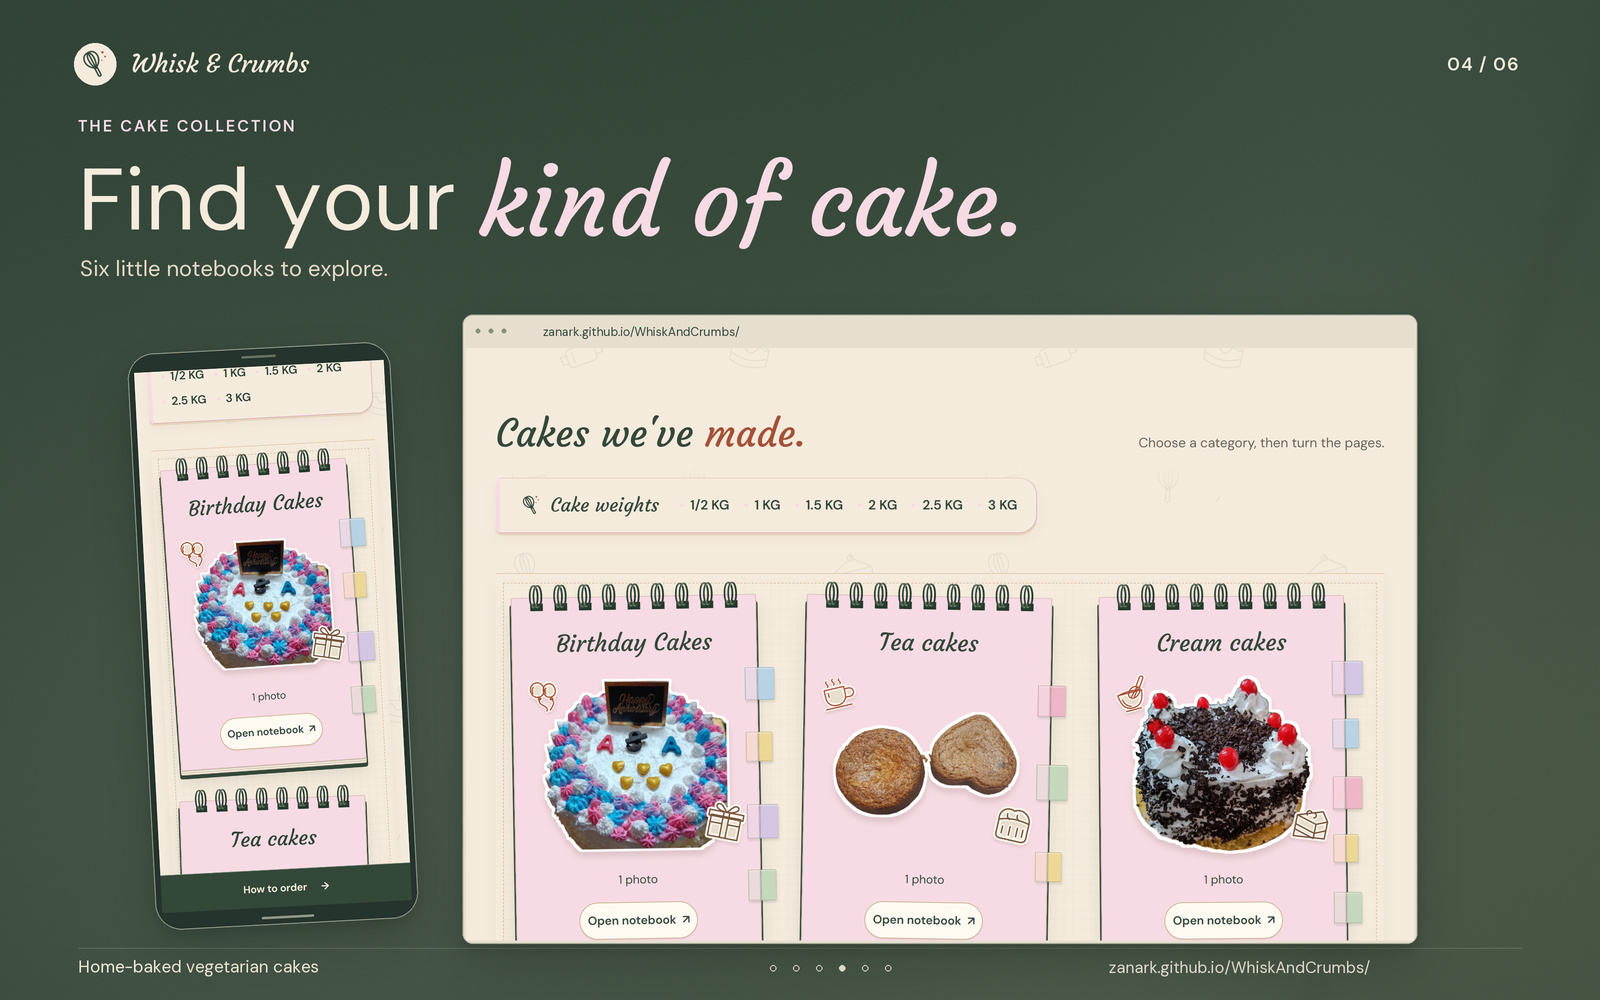
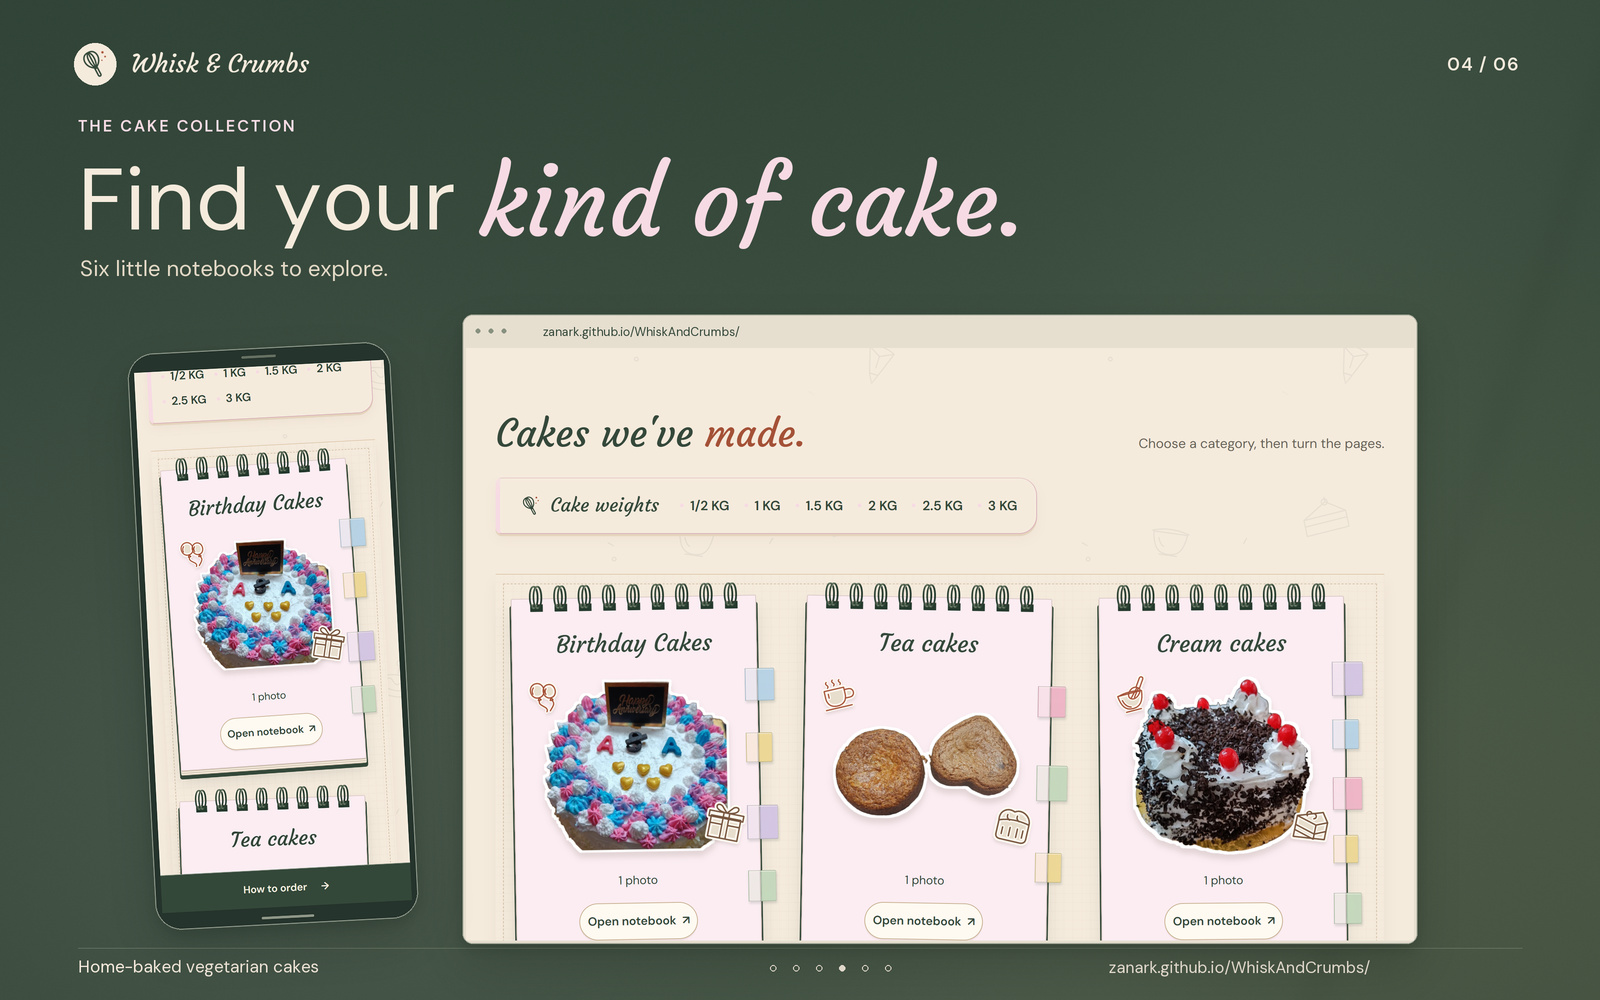
Lighten only the notebook covers to extra-pale blush
Use #fbedf2 cover faces while preserving the original weight-note accent, cream pages, green labels and tab colours. Refresh the notebook campaign views without changing product media or behavior.

Copilot-Session: 065222f9-e445-4b98-a549-e6948580c174

diff --git a/site/index.html b/site/index.html
@@ -22,14 +22,14 @@
   <link rel="icon" href="assets/favicon.svg" type="image/svg+xml" sizes="any">
   <link rel="apple-touch-icon" href="assets/apple-touch-icon.png" sizes="180x180">
   <link rel="preload" href="assets/fonts/courgette-regular.ttf" as="font" type="font/ttf" crossorigin>
-  <link rel="stylesheet" href="styles.css?v=51ee2b822d42">
-  <link rel="stylesheet" href="entrance-shop.css?v=51ee2b822d42">
-  <link rel="stylesheet" href="cozy-bakery.css?v=51ee2b822d42">
-  <link rel="stylesheet" href="readability.css?v=51ee2b822d42">
-  <link rel="modulepreload" href="entrance.mjs?v=51ee2b822d42">
-  <link rel="modulepreload" href="bell.mjs?v=51ee2b822d42">
-  <link rel="modulepreload" href="notebooks.mjs?v=51ee2b822d42">
-  <script type="module" src="main.mjs?v=51ee2b822d42"></script>
+  <link rel="stylesheet" href="styles.css?v=351a2a9f2186">
+  <link rel="stylesheet" href="entrance-shop.css?v=351a2a9f2186">
+  <link rel="stylesheet" href="cozy-bakery.css?v=351a2a9f2186">
+  <link rel="stylesheet" href="readability.css?v=351a2a9f2186">
+  <link rel="modulepreload" href="entrance.mjs?v=351a2a9f2186">
+  <link rel="modulepreload" href="bell.mjs?v=351a2a9f2186">
+  <link rel="modulepreload" href="notebooks.mjs?v=351a2a9f2186">
+  <script type="module" src="main.mjs?v=351a2a9f2186"></script>
 </head>
 <body>
   <a class="skip-link" href="#main">Skip to cakes and ordering</a>
@@ -40,7 +40,7 @@
         <div class="entrance-sign">
           <img src="assets/whisk-and-crumbs-logo.png" width="380" height="86" alt="">
         </div>
-        <div class="entrance-awning"><img src="assets/bakery-awning.svg?v=51ee2b822d42" width="1200" height="240" alt="" decoding="async"></div>
+        <div class="entrance-awning"><img src="assets/bakery-awning.svg?v=351a2a9f2186" width="1200" height="240" alt="" decoding="async"></div>
         <div class="entrance-doorway">
           <div class="entrance-bell-mount"></div>
           <svg class="entrance-bell" viewBox="0 0 64 68" width="64" height="68" fill="none" focusable="false">
@@ -53,9 +53,9 @@
           <div class="entrance-doorframe">
             <div class="entrance-room">
               <picture class="entrance-room-poster">
-                <source media="(max-aspect-ratio: 4/5)" srcset="assets/bakery-interior-portrait.webp?v=51ee2b822d42">
-                <source media="(max-height: 600px)" srcset="assets/bakery-interior-short.webp?v=51ee2b822d42">
-                <img src="assets/bakery-interior-wide.webp?v=51ee2b822d42" width="1600" height="1000" alt="" decoding="async">
+                <source media="(max-aspect-ratio: 4/5)" srcset="assets/bakery-interior-portrait.webp?v=351a2a9f2186">
+                <source media="(max-height: 600px)" srcset="assets/bakery-interior-short.webp?v=351a2a9f2186">
+                <img src="assets/bakery-interior-wide.webp?v=351a2a9f2186" width="1600" height="1000" alt="" decoding="async">
               </picture>
             </div>
             <div class="entrance-door entrance-door-left">
@@ -79,7 +79,7 @@
   </div>
   <noscript><style>.bakery-entrance { display: none !important; }</style></noscript>
   <header class="site-header">
-    <div class="shop-sign" style="--sign-wood:url('assets/bakery-sign-wood.webp?v=51ee2b822d42')">
+    <div class="shop-sign" style="--sign-wood:url('assets/bakery-sign-wood.webp?v=351a2a9f2186')">
       <div class="container header-inner">
         <a class="brand" href="#home" aria-label="Whisk &amp; Crumbs - home">
           <img src="assets/whisk-and-crumbs-mark.svg" width="128" height="128" alt="">
@@ -93,7 +93,7 @@
       <a class="button nav-cta" href="#order">How to order</a>
     </nav>
   </header>
-  <div class="site-awning" aria-hidden="true"><img src="assets/bakery-awning.svg?v=51ee2b822d42" width="1200" height="240" alt="" decoding="async"></div>
+  <div class="site-awning" aria-hidden="true"><img src="assets/bakery-awning.svg?v=351a2a9f2186" width="1200" height="240" alt="" decoding="async"></div>
 
   <main id="main" tabindex="-1">
     <section class="hero-section" id="home" aria-labelledby="hero-title">
@@ -651,7 +651,7 @@
         </div>
       </div>
     </section>
-    <div class="bakery-shelf" aria-hidden="true"><img src="assets/bakery-shelf.svg?v=51ee2b822d42" width="960" height="120" alt="" loading="lazy" decoding="async"></div>
+    <div class="bakery-shelf" aria-hidden="true"><img src="assets/bakery-shelf.svg?v=351a2a9f2186" width="960" height="120" alt="" loading="lazy" decoding="async"></div>
   </main>
 
   <footer class="container site-footer">

diff --git a/site/styles.css b/site/styles.css
@@ -5,7 +5,8 @@
 :root {
   --cream: #f5ebdd;
   --paper: #fffaf1;
-  --cover-paper: #f7dbe4;
+  --cover-paper: #fbedf2;
+  --weight-note-accent: #f7dbe4;
   --green: #34483a;
   --accent: #a45137;
   --wash: #e8decd;
@@ -175,12 +176,12 @@ em { color: var(--accent); font-weight: inherit; font-style: normal; }
 .cake-section { margin-block: 46px; }
 .section-heading { display: flex; flex-wrap: wrap; justify-content: space-between; align-items: end; gap: 18px 32px; margin-bottom: 30px; }
 .section-heading > p { color: var(--muted); max-width: 350px; }
-.cake-weight-info { display: flex; flex-wrap: wrap; align-items: center; gap: 16px 28px; width: fit-content; max-width: 100%; padding: 20px 26px; background: var(--cream); border: 1px solid #d9adba; border-left: 6px solid var(--cover-paper); border-radius: 8px 24px 24px 8px; box-shadow: 0 4px 0 rgb(239 183 200 / 20%); }
+.cake-weight-info { display: flex; flex-wrap: wrap; align-items: center; gap: 16px 28px; width: fit-content; max-width: 100%; padding: 20px 26px; background: var(--cream); border: 1px solid #d9adba; border-left: 6px solid var(--weight-note-accent); border-radius: 8px 24px 24px 8px; box-shadow: 0 4px 0 rgb(239 183 200 / 20%); }
 .cake-weight-heading { display: flex; align-items: center; gap: 10px; min-width: 0; font: 400 1.6rem/1.3 var(--script); overflow-wrap: anywhere; }
 .cake-weight-heading img { flex: 0 0 32px; width: 32px; height: 32px; }
 .cake-weight-values { display: flex; flex-wrap: wrap; align-items: center; gap: 10px 20px; min-width: 0; max-width: 100%; margin: 0; padding: 0; list-style: none; }
 .cake-weight-values li { display: flex; align-items: center; gap: 9px; color: var(--green); font-size: 1.125rem; font-weight: 600; line-height: 1.6; white-space: nowrap; }
-.cake-weight-values li::before { content: ""; flex: 0 0 5px; width: 5px; height: 5px; border-radius: 50%; background: var(--cover-paper); }
+.cake-weight-values li::before { content: ""; flex: 0 0 5px; width: 5px; height: 5px; border-radius: 50%; background: var(--weight-note-accent); }
 @media (max-width: 600px) {
   .cake-weight-info { width: 100%; padding: 18px 16px; gap: 12px; }
   .cake-weight-heading { width: 100%; }

diff --git a/README.md b/README.md
@@ -4,8 +4,8 @@
 
 [![A little care in every layer: the genuine desktop story and mobile recipe-note view, with cream editorial typography and slim device framing.](site/assets/showcase/03-our-story.jpg?v=f5cb96f3bc5d)](https://zanark.github.io/WhiskAndCrumbs/#story)
 
-[![Find your kind of cake: authentic desktop and mobile views of the pink category notebooks, real cake stickers and pastel edge tabs.](site/assets/showcase/04-cake-notebooks.jpg?v=f87dba8ec3ff)](https://zanark.github.io/WhiskAndCrumbs/#cakes)
+[![Find your kind of cake: authentic desktop and mobile views of extra-pale pink category notebooks, real cake stickers and pastel edge tabs.](site/assets/showcase/04-cake-notebooks.jpg?v=1003329fe361)](https://zanark.github.io/WhiskAndCrumbs/#cakes)
 
-[![Take a closer look: the real four-photo Decorated cakes notebook open in complete desktop and mobile viewports.](site/assets/showcase/05-open-notebook.jpg?v=6fcfe4cdd216)](https://zanark.github.io/WhiskAndCrumbs/#cakes)
+[![Take a closer look: the real four-photo Decorated cakes notebook open in complete desktop and mobile viewports.](site/assets/showcase/05-open-notebook.jpg?v=482cd97d437c)](https://zanark.github.io/WhiskAndCrumbs/#cakes)
 
 [![Your next cake starts with hello: real desktop and mobile ordering views in a forest-green website-launch composition.](site/assets/showcase/06-simple-ordering.jpg?v=4e83e2789cfe)](https://zanark.github.io/WhiskAndCrumbs/#order)

diff --git a/ABOUT.md b/ABOUT.md
@@ -57,7 +57,7 @@ still follows as its own section.
 **Birthday Cakes, Tea cakes, Cream cakes, Decorated cakes, Doll cakes and Chocolates**.
 Each cover has its own category-themed sticker pair rather than repeated hearts
 and bows.
-The notepads have **very light blush-pink covers** with deep-green lettering, so they stand
+The notepads have **extra-pale blush-pink covers** with deep-green lettering, so they stand
 apart from the cream website background. Inside pages stay cream, with fine sheet
 edges and paired top-wire rings, without a wide left-hand spine.
 Text-free pastel index tabs peek from the right side of each closed cover.
